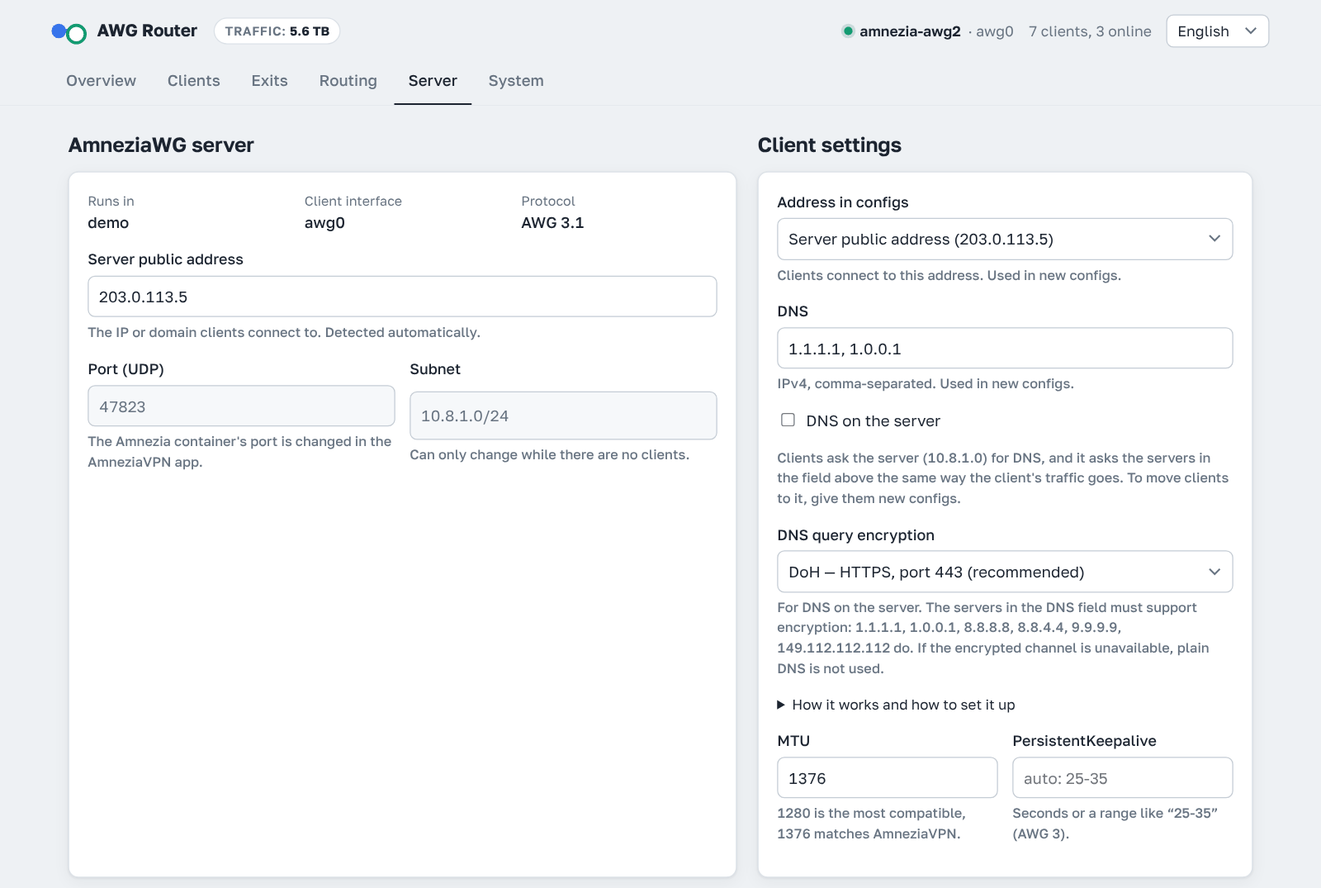
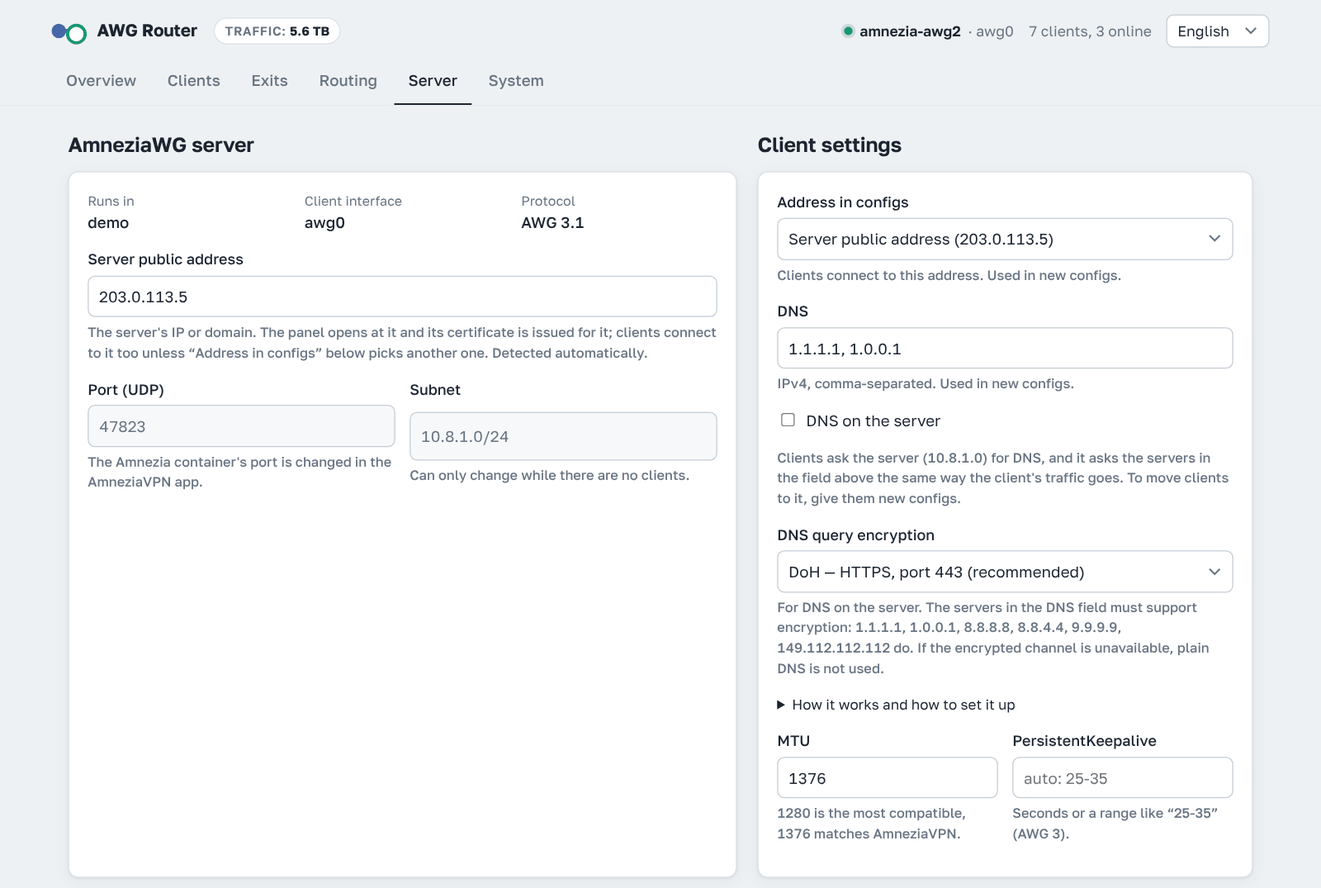
Release 1.19.5: Let's Encrypt through a web server, IPv6 exits

Changed region(s): [[0.0625, 0.3684, 0.5312, 0.5526], [0.0312, 0.0307, 0.0625, 0.0614]]

diff --git a/app/version.py b/app/version.py
@@ -1,2 +1,2 @@
 """Версия панели. Повышать при каждом изменении, которое увидят пользователи."""
-VERSION = "1.19.4"
+VERSION = "1.19.5"

diff --git a/release-notes/v1.19.5.md b/release-notes/v1.19.5.md
@@ -1,0 +1,101 @@
+**English** · [Русский](#ru) · [中文](#zh) · [فارسی](#fa)
+
+## What's changed
+
+- **Let's Encrypt through a web server on port 80 works.** Since 1.14.0 the panel put its test file in the wrong folder, so validation through nginx, Apache or Caddy always failed with HTTP 404 and was rolled back. If port 80 on your server is taken by a web server, open **System → Domain and certificate** after the update and set up the validation again. Thanks to @xiaomiiraqly-alt (#21).
+
+- **Exits at an IPv6 address.** In the AmneziaVPN container mode Docker gives the container no IPv6 by default, so such an exit just showed "no connection". Now it says why and what to do: turn on IPv6 in Docker (README, "Limitations") or give the exit an IPv4 address or a domain with an A record. If IPv6 in Docker is already on, nothing changes. Thanks to @paris19891 (#20).
+
+- **Server public address.** This field is also the address the panel opens at and the name in its certificate, and the panel listens on IPv4 only. It no longer takes an IPv6 address, and its hint now says so. To have clients connect over IPv6, pick the address in **Address in configs**. If an IPv6 address was saved in the field, it moves there by itself. Thanks to @paris19891 (#20).
+
+## Update
+
+**System → Update** in the panel (since 1.4.0), or on the server:
+
+    awg-router update
+
+New install (Ubuntu or Debian, as root):
+
+    curl -fsSL https://raw.githubusercontent.com/r-slashslash/AWG-Router/main/install.sh | bash
+
+---
+
+<a id="ru"></a>
+<details>
+<summary><b>Русский</b></summary>
+
+## Что изменилось
+
+- **Let's Encrypt через веб-сервер на порту 80 работает.** С версии 1.14.0 панель клала проверочный файл не в ту папку, поэтому проверка через nginx, Apache или Caddy всегда заканчивалась ошибкой HTTP 404 и откатывалась. Если порт 80 на вашем сервере занят веб-сервером, после обновления откройте **«Система» → «Домен и сертификат»** и настройте проверку ещё раз. Спасибо @xiaomiiraqly-alt (#21).
+
+- **Выходы с адресом IPv6.** В режиме контейнера AmneziaVPN Docker по умолчанию не даёт контейнеру IPv6, и такой выход просто показывал «нет связи». Теперь он пишет причину и что делать: включить IPv6 в Docker (README, «Ограничения») или указать у выхода IPv4-адрес либо домен с записью A. Если IPv6 в Docker уже включён, ничего не меняется. Спасибо @paris19891 (#20).
+
+- **Внешний адрес сервера.** Это поле — ещё и адрес, по которому открывается панель, и имя в её сертификате, а панель слушает только IPv4. Адрес IPv6 оно больше не принимает, и подсказка теперь это объясняет. Чтобы клиенты подключались по IPv6, выберите адрес в **«Адрес в конфигах»**. Если в поле был сохранён адрес IPv6, он переедет туда сам. Спасибо @paris19891 (#20).
+
+## Обновление
+
+**«Система» → «Обновить»** в панели (начиная с 1.4.0) или на сервере:
+
+    awg-router update
+
+Новая установка (Ubuntu или Debian, от root):
+
+    curl -fsSL https://raw.githubusercontent.com/r-slashslash/AWG-Router/main/install.sh | bash
+
+</details>
+
+<a id="zh"></a>
+<details>
+<summary><b>中文</b></summary>
+
+## 改动
+
+- **通过 80 端口上的 Web 服务器进行 Let's Encrypt 验证现已可用。** 从 1.14.0 起，面板把验证文件放错了目录，所以通过 nginx、Apache 或 Caddy 的验证总是以 HTTP 404 失败并被回滚。如果服务器的 80 端口被 Web 服务器占用，更新后请打开 **系统 → 域名和证书**，重新设置验证。感谢 @xiaomiiraqly-alt（#21）。
+
+- **使用 IPv6 地址的出口。** 在 AmneziaVPN 容器模式下，Docker 默认不给容器分配 IPv6，这样的出口只会显示“无连接”。现在它会说明原因和解决办法：在 Docker 中启用 IPv6（见 README“限制”一节），或为出口改用 IPv4 地址或带 A 记录的域名。如果 Docker 已启用 IPv6，则一切照旧。感谢 @paris19891（#20）。
+
+- **服务器公网地址。** 这个字段同时也是面板的访问地址和证书中的名称，而面板只监听 IPv4。它不再接受 IPv6 地址，提示中也说明了这一点。要让客户端通过 IPv6 连接，请在 **配置中的地址** 中选择该地址。如果该字段中已保存了 IPv6 地址，它会自动移到那里。感谢 @paris19891（#20）。
+
+## 更新
+
+在面板中 **系统 → 更新**（从 1.4.0 起），或在服务器上运行：
+
+    awg-router update
+
+全新安装（Ubuntu 或 Debian，以 root 运行）：
+
+    curl -fsSL https://raw.githubusercontent.com/r-slashslash/AWG-Router/main/install.sh | bash
+
+</details>
+
+<a id="fa"></a>
+<details>
+<summary><b>فارسی</b></summary>
+
+<div dir="rtl">
+
+## تغییرها
+
+- **اعتبارسنجی Let's Encrypt از راه وبسرور روی درگاه 80 کار میکند.** از نسخهٔ 1.14.0 پنل فایل آزمایشی را در پوشهٔ اشتباه میگذاشت، برای همین اعتبارسنجی از راه nginx، Apache یا Caddy همیشه با خطای <bdi>HTTP 404</bdi> شکست میخورد و برگردانده میشد. اگر درگاه 80 سرور شما را وبسرور گرفته است، پس از بهروزرسانی **سیستم ← دامنه و گواهی** را باز کنید و اعتبارسنجی را دوباره تنظیم کنید. سپاس از <bdi>@xiaomiiraqly-alt</bdi> (<bdi>#21</bdi>).
+
+- **خروجی با نشانی IPv6.** در حالت کانتینر AmneziaVPN، Docker بهطور پیشفرض به کانتینر IPv6 نمیدهد و چنین خروجیای فقط «بدون اتصال» نشان میداد. اکنون علت و راهحل را میگوید: IPv6 را در Docker روشن کنید (README، بخش «محدودیتها») یا برای خروجی نشانی IPv4 یا دامنهای با رکورد A بدهید. اگر IPv6 در Docker از قبل روشن است، چیزی تغییر نمیکند. سپاس از <bdi>@paris19891</bdi> (<bdi>#20</bdi>).
+
+- **آدرس عمومی سرور.** این فیلد نشانیای است که پنل با آن باز میشود و نام درون گواهی آن هم هست، و پنل فقط روی IPv4 گوش میدهد. دیگر نشانی IPv6 را نمیپذیرد و راهنمای آن هم همین را میگوید. برای اتصال کلاینتها با IPv6، نشانی را در **آدرس در پیکربندیها** انتخاب کنید. اگر در این فیلد نشانی IPv6 ذخیره شده بود، خودش به آنجا منتقل میشود. سپاس از <bdi>@paris19891</bdi> (<bdi>#20</bdi>).
+
+## بهروزرسانی
+
+**سیستم ← بهروزرسانی** در پنل (از نسخهٔ 1.4.0)، یا روی سرور:
+
+</div>
+
+    awg-router update
+
+<div dir="rtl">
+
+نصب تازه (اوبونتو یا دبیان، با کاربر root):
+
+</div>
+
+    curl -fsSL https://raw.githubusercontent.com/r-slashslash/AWG-Router/main/install.sh | bash
+
+</details>

diff --git a/README.fa.md b/README.fa.md
@@ -301,6 +301,7 @@ ssh -N -L PORT:127.0.0.1:PORT root@SERVER_IP
 - درون تونل فقط IPv4. اتصال به سرور با IPv4 یا IPv6.
 - قانونهای دامنه فقط HTTPS و HTTP (درگاههای 443 و 80) را میبینند و وقتی مرورگر نام را پنهان کند (Encrypted Client Hello) سایت را نمیبینند؛ چنین اتصالهایی طبق قانونهای نشانی میروند. در حالت «AWG روی میزبان» با دیوارهٔ آتشی که فقط nftables است (مثلاً firewalld)، ورود TCP روی درگاه 10443 از رابط کلاینتها را مجاز کنید؛ با iptables یا ufw پنل خودش این کار را میکند.
 - خروجیهای SOCKS5 به پشتیبانی IPv6 در هسته نیاز دارند (همیشه هست، مگر سروری که با `ipv6.disable=1` راهاندازی شده باشد).
+- خروجیهای IPv6 در حالت کانتینر AmneziaVPN به IPv6 در Docker نیاز دارند: شبکهٔ کانتینر بهطور پیشفرض IPv6 ندارد و پنل بهجای «بدون اتصال» همین را میگوید. این را به `/etc/docker/daemon.json` اضافه کنید: `"ipv6": true, "fixed-cidr-v6": "fd5a:3c71:9e20::/64", "ip6tables": true` (تنظیمات موجود را نگه دارید؛ Docker پیش از نسخهٔ 27 به `"experimental": true` هم نیاز دارد) و `systemctl restart docker` را اجرا کنید — همهٔ کانتینرها دوباره راهاندازی میشوند. یا برای خروجی نشانی IPv4 یا دامنهای با رکورد A بدهید.
 - فهرست کشورها از دادههای ثبت نشانیها ساخته میشود. برای یک سرویس مشخص، فهرست ASN دقیقتر است.
 - محدود کردن آپلود کلاینتها و دانلود از خروجیها به ماژول `ifb` هسته نیاز دارد. نصبکننده خودش آن را نصب میکند (در هستههای ابری بستهٔ `linux-modules-extra`)؛ اگر برای هسته چنین بستهای نباشد، پنل این را میگوید و بقیهٔ محدودیتها کار میکنند.
 
@@ -336,6 +337,8 @@ DRY_RUN=1 PANEL_PASSWORD=demo DATA_DIR=./demo python3 -m app.main       # demo w
 </tr>
 <tr>
 <td align="center" valign="top" width="33%"><a href="https://github.com/alexeyvolodin"><img src="https://github.com/alexeyvolodin.png?size=128" width="72" alt=""><br><b>alexeyvolodin</b></a><br>💻 🔍<br><sub>قانونهای دامنه با جابهجایی داده درون هسته <a href="https://github.com/r-slashslash/AWG-Router/pull/19">&lrm;#19&lrm;</a>، بررسی درگاه اشغالشده در نصبکننده <a href="https://github.com/r-slashslash/AWG-Router/pull/17">&lrm;#17&lrm;</a></sub></td>
+<td align="center" valign="top" width="33%"><a href="https://github.com/paris19891"><img src="https://github.com/paris19891.png?size=128" width="72" alt=""><br><b>paris19891</b></a><br>🐛 🔍<br><sub>خروجی IPv6 و آدرس پنل در حالت کانتینر <a href="https://github.com/r-slashslash/AWG-Router/issues/20">&lrm;#20&lrm;</a></sub></td>
+<td align="center" valign="top" width="33%"><a href="https://github.com/xiaomiiraqly-alt"><img src="https://github.com/xiaomiiraqly-alt.png?size=128" width="72" alt=""><br><b>xiaomiiraqly-alt</b></a><br>🐛 🔍<br><sub>اعتبارسنجی Let's Encrypt از راه وبسرور روی درگاه 80 <a href="https://github.com/r-slashslash/AWG-Router/issues/21">&lrm;#21&lrm;</a></sub></td>
 </tr>
 </table>
 

diff --git a/README.ru.md b/README.ru.md
@@ -272,6 +272,7 @@ ssh -N -L ПОРТ:127.0.0.1:ПОРТ root@IP-СЕРВЕРА
 - В туннеле только IPv4. Подключение к серверу — по IPv4 или IPv6.
 - Правила по доменам видят только HTTPS и HTTP (порты 443 и 80) и не видят сайт, если браузер прячет имя (Encrypted Client Hello): тогда соединение идёт по правилам адресов. В режиме «AWG на хосте» с файрволом только на nftables (например, firewalld) разрешите вход на TCP-порт 10443 с интерфейса клиентов; для iptables и ufw панель делает это сама.
 - Выходам SOCKS5 нужна поддержка IPv6 в ядре (она есть всегда, кроме серверов, загруженных с `ipv6.disable=1`).
+- Выходам по IPv6 в режиме контейнера AmneziaVPN нужен IPv6 в Docker: по умолчанию в сети контейнера его нет, и панель пишет об этом вместо «нет связи». Добавьте в `/etc/docker/daemon.json` `"ipv6": true, "fixed-cidr-v6": "fd5a:3c71:9e20::/64", "ip6tables": true` (не стирая то, что там уже есть; Docker до версии 27 нужен ещё `"experimental": true`) и выполните `systemctl restart docker` — перезапустятся все контейнеры. Или укажите у выхода IPv4-адрес либо домен с записью A.
 - Списки стран построены по регистрационным данным. Для конкретных сервисов точнее списки по ASN.
 - Для ограничения отдачи клиентов и загрузки через выходы нужен модуль ядра `ifb`. Установщик ставит его сам (на облачных ядрах — пакет `linux-modules-extra`); если для ядра такого пакета нет, панель об этом пишет, остальные ограничения работают.
 
@@ -303,6 +304,8 @@ DRY_RUN=1 PANEL_PASSWORD=demo DATA_DIR=./demo python3 -m app.main       # дем
 </tr>
 <tr>
 <td align="center" valign="top" width="33%"><a href="https://github.com/alexeyvolodin"><img src="https://github.com/alexeyvolodin.png?size=128" width="72" alt=""><br><b>alexeyvolodin</b></a><br>💻 🔍<br><sub>правила по доменам с пересылкой внутри ядра <a href="https://github.com/r-slashslash/AWG-Router/pull/19">#19</a>, проверка занятого порта в установщике <a href="https://github.com/r-slashslash/AWG-Router/pull/17">#17</a></sub></td>
+<td align="center" valign="top" width="33%"><a href="https://github.com/paris19891"><img src="https://github.com/paris19891.png?size=128" width="72" alt=""><br><b>paris19891</b></a><br>🐛 🔍<br><sub>выходы по IPv6 и адрес панели в режиме контейнера <a href="https://github.com/r-slashslash/AWG-Router/issues/20">#20</a></sub></td>
+<td align="center" valign="top" width="33%"><a href="https://github.com/xiaomiiraqly-alt"><img src="https://github.com/xiaomiiraqly-alt.png?size=128" width="72" alt=""><br><b>xiaomiiraqly-alt</b></a><br>🐛 🔍<br><sub>проверка Let's Encrypt через веб-сервер на порту 80 <a href="https://github.com/r-slashslash/AWG-Router/issues/21">#21</a></sub></td>
 </tr>
 </table>
 

diff --git a/README.zh.md b/README.zh.md
@@ -272,6 +272,7 @@ ssh -N -L PORT:127.0.0.1:PORT root@SERVER_IP
 - 隧道内仅支持 IPv4。客户端可通过 IPv4 或 IPv6 连接服务器。
 - 域名规则只能看到 HTTPS 和 HTTP（443 和 80 端口），浏览器隐藏名称时（Encrypted Client Hello）看不到网站，这类连接按地址规则走。在“主机上的 AWG”模式下，如果防火墙只用 nftables（例如 firewalld），请允许客户端接口上 TCP 10443 端口的入站流量；使用 iptables 或 ufw 时面板会自动处理。
 - SOCKS5 出口需要内核支持 IPv6（除了以 `ipv6.disable=1` 启动的服务器，都具备）。
+- AmneziaVPN 容器模式下经 IPv6 的出口需要 Docker 启用 IPv6：容器网络默认没有 IPv6，面板会直接说明原因，而不只是显示“无连接”。在 `/etc/docker/daemon.json` 中加入 `"ipv6": true, "fixed-cidr-v6": "fd5a:3c71:9e20::/64", "ip6tables": true`（保留文件中已有的设置；Docker 27 之前的版本还需要 `"experimental": true`），然后运行 `systemctl restart docker`——这会重启所有容器。也可以为出口改用 IPv4 地址或带 A 记录的域名。
 - 国家列表基于注册数据生成。针对特定服务，ASN 列表更准确。
 - 限制客户端上传和出口下载需要内核的 `ifb` 模块。安装程序会自动安装（云服务器内核使用 `linux-modules-extra` 软件包）；如果该内核没有这样的软件包，面板会提示，其他限制照常生效。
 
@@ -303,6 +304,8 @@ DRY_RUN=1 PANEL_PASSWORD=demo DATA_DIR=./demo python3 -m app.main       # 无需
 </tr>
 <tr>
 <td align="center" valign="top" width="33%"><a href="https://github.com/alexeyvolodin"><img src="https://github.com/alexeyvolodin.png?size=128" width="72" alt=""><br><b>alexeyvolodin</b></a><br>💻 🔍<br><sub>域名规则在内核中转发 <a href="https://github.com/r-slashslash/AWG-Router/pull/19">#19</a>、安装程序检查端口是否被占用 <a href="https://github.com/r-slashslash/AWG-Router/pull/17">#17</a></sub></td>
+<td align="center" valign="top" width="33%"><a href="https://github.com/paris19891"><img src="https://github.com/paris19891.png?size=128" width="72" alt=""><br><b>paris19891</b></a><br>🐛 🔍<br><sub>容器模式下的 IPv6 出口和面板地址 <a href="https://github.com/r-slashslash/AWG-Router/issues/20">#20</a></sub></td>
+<td align="center" valign="top" width="33%"><a href="https://github.com/xiaomiiraqly-alt"><img src="https://github.com/xiaomiiraqly-alt.png?size=128" width="72" alt=""><br><b>xiaomiiraqly-alt</b></a><br>🐛 🔍<br><sub>通过 80 端口上的 Web 服务器进行 Let's Encrypt 验证 <a href="https://github.com/r-slashslash/AWG-Router/issues/21">#21</a></sub></td>
 </tr>
 </table>
 

diff --git a/README.md b/README.md
@@ -272,6 +272,7 @@ The panel effectively has root access to the server.
 - Inside the tunnel, IPv4 only. Clients connect to the server over IPv4 or IPv6.
 - Domain rules see only HTTPS and HTTP (ports 443 and 80) and can't see the site when the browser hides the name (Encrypted Client Hello); such connections follow the address rules. In host mode with an nftables-only firewall (for example, firewalld), allow incoming TCP port 10443 on the clients' interface; with iptables or ufw the panel does it itself.
 - SOCKS5 exits need IPv6 support in the kernel (always there, except on servers booted with `ipv6.disable=1`).
+- Exits over IPv6 in the AmneziaVPN container mode need IPv6 in Docker: by default the container's network has none, and the panel says so instead of a bare “no connection”. Add `"ipv6": true, "fixed-cidr-v6": "fd5a:3c71:9e20::/64", "ip6tables": true` to `/etc/docker/daemon.json` (keep what is already there; Docker older than 27 also needs `"experimental": true`) and run `systemctl restart docker` — this restarts every container. Or give the exit an IPv4 address or a domain with an A record.
 - Country lists are built from registry data. For a specific service, an ASN list is more accurate.
 - Upload limits for clients and download limits for exits need the kernel's `ifb` module. The installer adds it (`linux-modules-extra` on cloud kernels); if the kernel has no such package, the panel says so and the other limits still work.
 
@@ -303,6 +304,8 @@ They found problems, traced them down to the line of code and suggested solution
 </tr>
 <tr>
 <td align="center" valign="top" width="33%"><a href="https://github.com/alexeyvolodin"><img src="https://github.com/alexeyvolodin.png?size=128" width="72" alt=""><br><b>alexeyvolodin</b></a><br>💻 🔍<br><sub>domain rules relayed inside the kernel <a href="https://github.com/r-slashslash/AWG-Router/pull/19">#19</a>, busy port check in the installer <a href="https://github.com/r-slashslash/AWG-Router/pull/17">#17</a></sub></td>
+<td align="center" valign="top" width="33%"><a href="https://github.com/paris19891"><img src="https://github.com/paris19891.png?size=128" width="72" alt=""><br><b>paris19891</b></a><br>🐛 🔍<br><sub>IPv6 exits and the panel address in the container mode <a href="https://github.com/r-slashslash/AWG-Router/issues/20">#20</a></sub></td>
+<td align="center" valign="top" width="33%"><a href="https://github.com/xiaomiiraqly-alt"><img src="https://github.com/xiaomiiraqly-alt.png?size=128" width="72" alt=""><br><b>xiaomiiraqly-alt</b></a><br>🐛 🔍<br><sub>Let's Encrypt validation through a web server on port 80 <a href="https://github.com/r-slashslash/AWG-Router/issues/21">#21</a></sub></td>
 </tr>
 </table>
 

diff --git a/CHANGELOG.md b/CHANGELOG.md
@@ -3,6 +3,22 @@
 Panels compare their version with the latest GitHub release and show "update available" when
 it grows, so every user-visible change gets a new version.
 
+## 1.19.5 — 2026-11-13
+
+- **Let's Encrypt through a web server on port 80.** Since 1.14.0 the self-check put its test file next to
+  `.well-known/acme-challenge/` instead of inside it (`host_path` drops the trailing slash), so validation
+  through nginx, Apache or Caddy always got HTTP 404 and was rolled back, in the panel and in the installer
+  alike. Thanks to @xiaomiiraqly-alt (#21).
+- **Exits at an IPv6 address.** When the AWG server's network has no IPv6 route to an AWG or SOCKS5 exit (in
+  the AmneziaVPN container mode Docker gives the container no IPv6 by default), the exit now says so and what
+  to do instead of hanging on "no connection"; README → Limitations shows how to turn on IPv6 in Docker. The
+  check looks at the route, so servers with IPv6 in Docker keep working. Thanks to @paris19891 (#20).
+- **Server public address.** The field is also the panel's address and the name in its certificate, and the
+  panel listens on IPv4 only, so it no longer takes an IPv6 address and its hint says what it is for; clients
+  get IPv6 through "Address in configs". An IPv6 address already saved there moves to "Address in configs",
+  and one from a backup is not restored. A Let's Encrypt certificate for an IPv6 address is now found under
+  the file name lego gives it. Thanks to @paris19891 (#20).
+
 ## 1.19.4 — 2026-11-13
 
 - **Faster domain rules.** `sniproxy.py`, which carries all TCP 80/443 of clients with domain rules,
